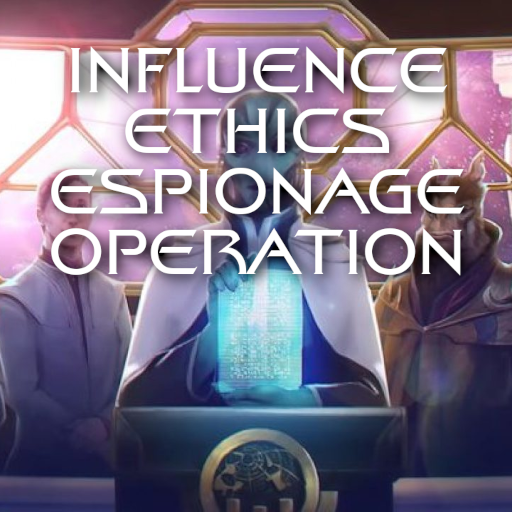
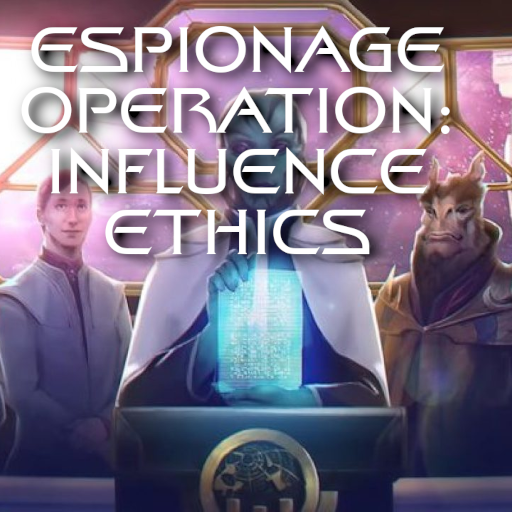
Update title

Changed region(s): [[0.0312, 0.0312, 0.9375, 0.5625]]

diff --git a/README.md b/README.md
@@ -1,4 +1,4 @@
-# Influence Ethics Espionage Operation
+# Espionage Operation: Influence Ethics
 
 This mod adds a new espionage operation, influence ethics, which permits you to exert influence on the target empire's internal ethics.  This is a two stage operation and after the successful completion of the second step you will exert influence on the target empires ethics for five years.
 
